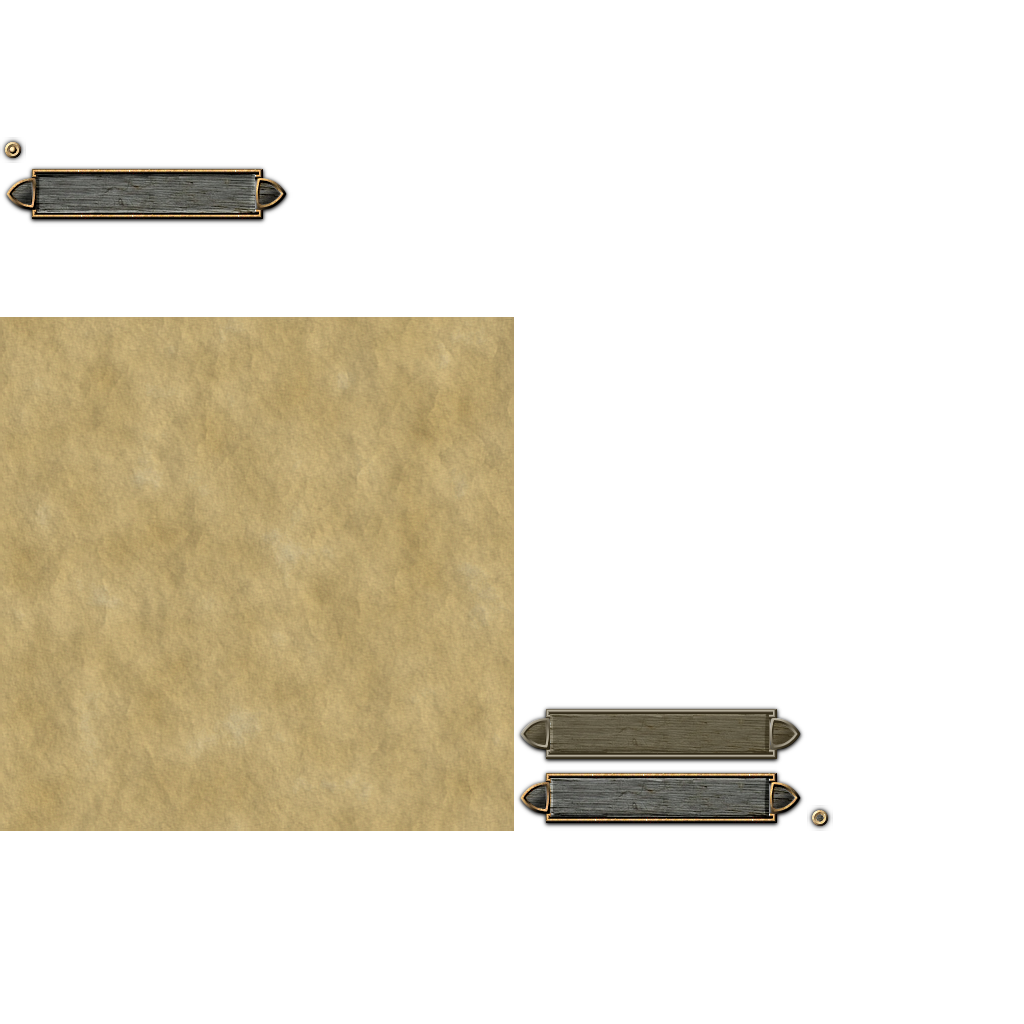
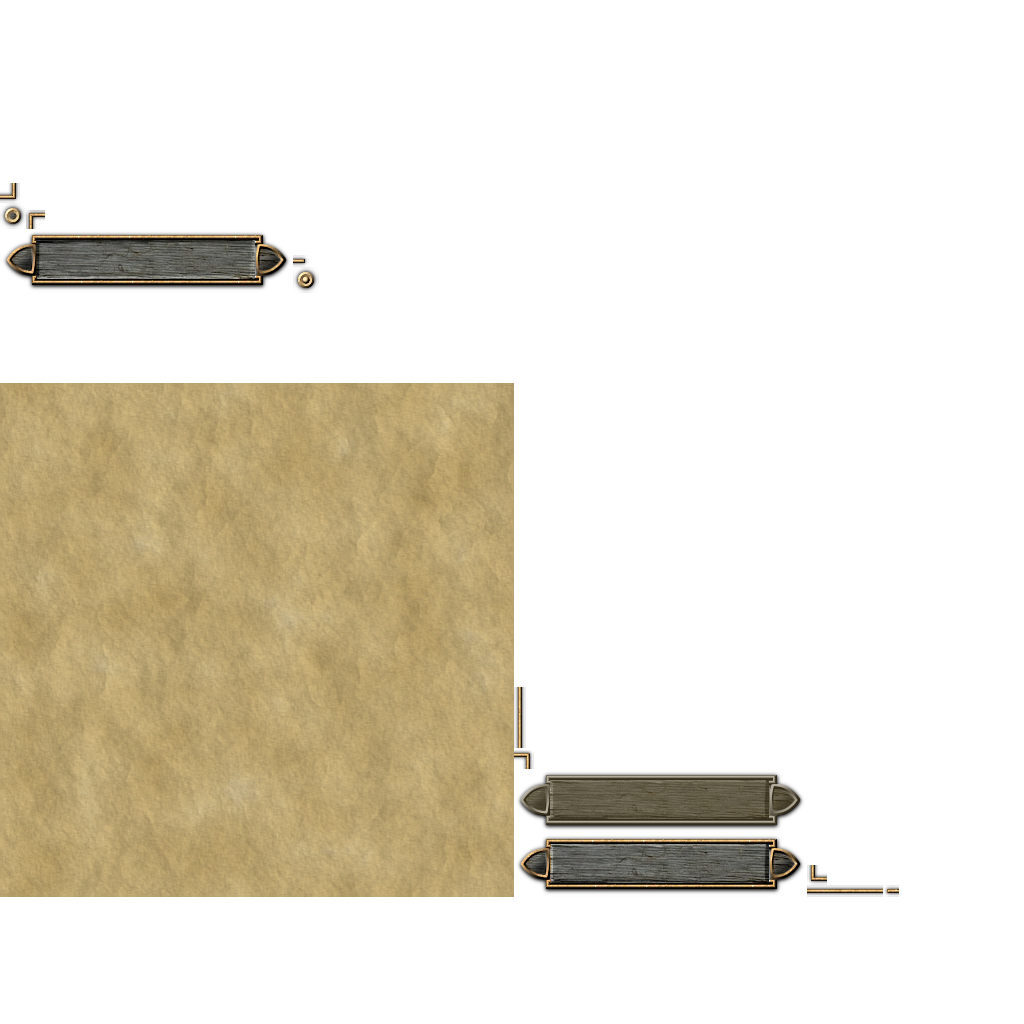
реализация главного меню

diff --git a/core/src/main/kotlin/com/goncharov/evgeny/chess/screens/MainMenuScreen.kt b/core/src/main/kotlin/com/goncharov/evgeny/chess/screens/MainMenuScreen.kt
@@ -3,9 +3,10 @@ package com.goncharov.evgeny.chess.screens
 import com.badlogic.gdx.Gdx
 import com.badlogic.gdx.assets.AssetManager
 import com.badlogic.gdx.graphics.g2d.SpriteBatch
-import com.badlogic.gdx.scenes.scene2d.InputEvent
 import com.badlogic.gdx.scenes.scene2d.Stage
+import com.badlogic.gdx.scenes.scene2d.ui.Image
 import com.badlogic.gdx.scenes.scene2d.ui.ImageTextButton
+import com.badlogic.gdx.scenes.scene2d.ui.Label
 import com.badlogic.gdx.scenes.scene2d.ui.Table
 import com.badlogic.gdx.utils.viewport.FillViewport
 import com.goncharov.evgeny.chess.base.BaseScreen
@@ -32,21 +33,54 @@ class MainMenuScreen(
         val table = Table()
         table.background = uiSkin.getDrawable(BACKGROUND_PAPER_ID)
         table.setFillParent(true)
+        val image1 = Image(uiSkin, "line_1")
+        table.add(image1).padLeft(8.0f).padTop(33.0f)
+
+        val table2 = Table()
+        val image2 = Image(uiSkin, "line_8")
+        table2.add(image2)
+        val label = Label("Menu", uiSkin)
+        table2.add(label).spaceLeft(12.0f).spaceRight(12.0f)
+        val image3 = Image(uiSkin, "line_7")
+        table2.add(image3)
+        val image4 = Image(uiSkin, "line_2")
+        table2.add(image4).growX()
+        table.add(table2).padTop(23.0f).fillX()
+        val image5 = Image(uiSkin, "line_3")
+        table.add(image5).padLeft(-8.0f).padBottom(-31.0f)
+        table.row()
+
+        val image6 = Image(uiSkin, "line_4")
+        table.add(image6).fillY()
+
+        val table3 = Table()
         val textButtonStartGame = ImageTextButton(TEXT_PLAYER_GAME, uiSkin)
         textButtonStartGame.addListenerKtx(::startPlayerVsPlayerGame)
-        table.add(textButtonStartGame)
-        table.row()
+        table3.add(textButtonStartGame)
+        table3.row()
         val textButtonStartGameWithComputer = ImageTextButton(TEXT_PLAYER_WITH_COMPUTER, uiSkin)
         textButtonStartGameWithComputer.isDisabled = true
-        table.add(textButtonStartGameWithComputer)
-        table.row()
+        table3.add(textButtonStartGameWithComputer)
+        table3.row()
         val textButtonSettings = ImageTextButton(TEXT_SETTINGS, uiSkin)
         textButtonSettings.addListenerKtx(::startSettings)
-        table.add(textButtonSettings)
-        table.row()
+        table3.add(textButtonSettings)
+        table3.row()
         val textButtonExit = ImageTextButton(TEXT_EXIT, uiSkin)
         textButtonExit.addListenerKtx(::exitApplication)
-        table.add(textButtonExit)
+        table3.add(textButtonExit)
+        table.add(table3)
+
+        val image7 = Image(uiSkin, "line_4")
+        table.add(image7).fillY()
+
+        table.row()
+        val image8 = Image(uiSkin, "line_5")
+        table.add(image8).padRight(-7.0f)
+        val image9 = Image(uiSkin, "line_2")
+        table.add(image9).padLeft(-13.0f).padRight(-13.0f).padTop(8.0f).fillX()
+        val image10 = Image(uiSkin, "line_6")
+        table.add(image10).padRight(8.0f)
         stage.addActor(table)
     }
 

diff --git a/core/src/main/kotlin/com/goncharov/evgeny/chess/screens/SplashScreen.kt b/core/src/main/kotlin/com/goncharov/evgeny/chess/screens/SplashScreen.kt
@@ -39,8 +39,8 @@ class SplashScreen(
         label.addAction(
             Actions.sequence(
                 Actions.alpha(0f),
-                Actions.fadeIn(1f),
-                Actions.fadeOut(1f),
+                Actions.fadeIn(0.2f),
+                Actions.fadeOut(0.2f),
                 Actions.run {
                     navigator.navigation(NavigationKey.MainMenuScreenKey)
                 }

diff --git a/core/src/main/kotlin/com/goncharov/evgeny/chess/consts/GameConfig.kt b/core/src/main/kotlin/com/goncharov/evgeny/chess/consts/GameConfig.kt
@@ -3,8 +3,8 @@ package com.goncharov.evgeny.chess.consts
 const val WINDOW_WIDTH = 1280
 const val WINDOW_HEIGHT = 720
 
-const val UI_WIDTH = 640f
-const val UI_HEIGHT = 360f
+const val UI_WIDTH = 984.6f
+const val UI_HEIGHT = 553.8f
 
 const val WORLD_WIDTH = 12.8f
 const val WORLD_HEIGHT = 7.2f
